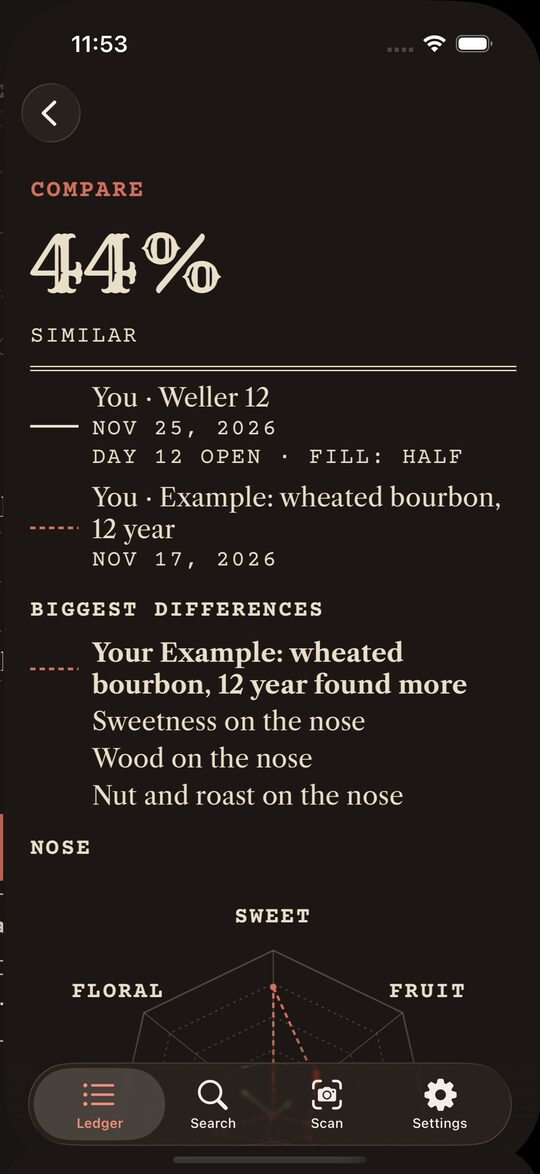
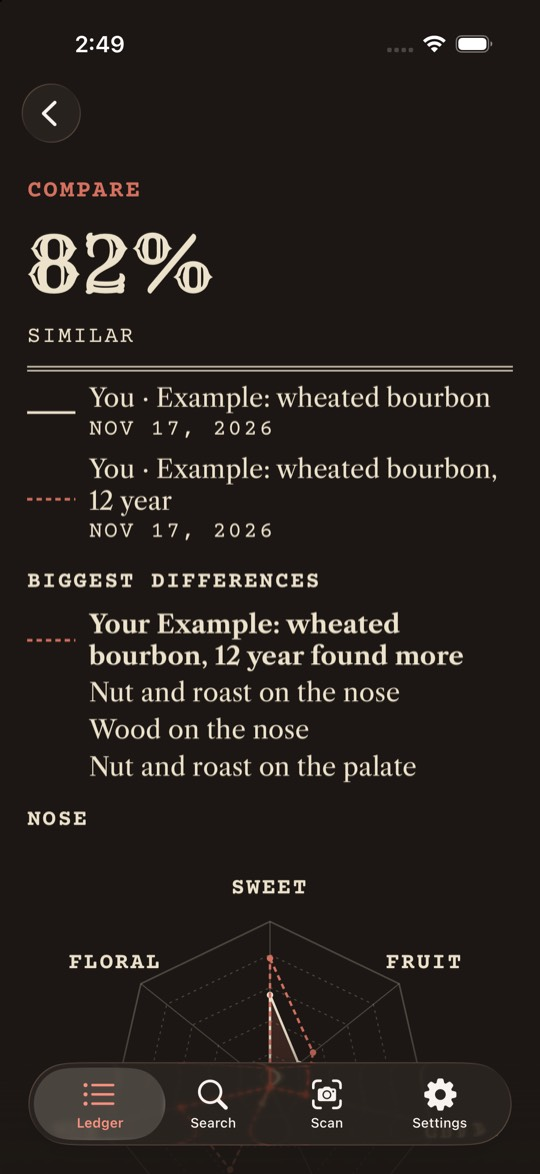
Compare: two screenshots (biggest differences; radar overlay with the flavors both picked), wheated vs 12-year wheated example, light and dark

diff --git a/index.html b/index.html
@@ -153,16 +153,27 @@
       </div>
 
       <div class="feature">
-        <figure class="phone">
-          <picture>
+        <div class="pair">
+          <figure class="phone">
+            <picture>
             <source media="(prefers-color-scheme: dark)" srcset="images/compare-dark.jpg">
-            <img src="images/compare-light.jpg" width="540" height="1174" loading="lazy" alt="Compare: two tastings at 44% similar, with their biggest differences listed and both signatures drawn over each other.">
+            <img src="images/compare-light.jpg" width="540" height="1174" loading="lazy" alt="Compare: a wheated bourbon and a 12-year wheated bourbon, 82% similar. Biggest differences: the 12 year found more nut and roast on the nose and palate, and more wood on the nose.">
           </picture>
-        </figure>
+            <figcaption class="hint">Differences</figcaption>
+          </figure>
+          <figure class="phone">
+            <picture>
+            <source media="(prefers-color-scheme: dark)" srcset="images/compare-radar-dark.jpg">
+            <img src="images/compare-radar-light.jpg" width="540" height="1174" loading="lazy" alt="The two palate signatures drawn over each other, one solid and one dashed, then the flavors both picked (caramel, vanilla, toffee, toasted oak and more) with each one's strength side by side.">
+          </picture>
+            <figcaption class="hint">Similarities</figcaption>
+          </figure>
+        </div>
         <div>
           <div class="label">Compare</div>
           <h3>Side by side, with the differences spelled out</h3>
-          <p>Pick any two tastings, yours or a friend's, and see how similar they are, which flavor families differ most and which flavors only one of you found.</p>
+          <p>Pick any two tastings, yours or a friend's, and see how similar they are and which flavor families differ most.</p>
+          <p>Both signatures are drawn over each other, so you can see at a glance where they agree and where they part. Below the radars: the flavors you both picked, with each one's strength side by side, and the flavors only one of you found.</p>
         </div>
       </div>
 

diff --git a/guide.html b/guide.html
@@ -148,13 +148,21 @@
           <ul>
             <li>how similar they are, as a percentage;</li>
             <li>the biggest differences, family by family;</li>
-            <li>the flavors only one of them has;</li>
-            <li>both signatures drawn over each other: yours solid, the other dashed.</li>
+            <li>both signatures drawn over each other, nose and palate: the tasting you started from solid, the other dashed;</li>
+            <li>the flavors both picked, with each one's strength side by side;</li>
+            <li>the flavors only one of them has.</li>
           </ul>
         </div>
-        <figure class="phone">
-          <picture><source media="(prefers-color-scheme: dark)" srcset="images/compare-dark.jpg"><img src="images/compare-light.jpg" width="540" height="1174" loading="lazy" alt="Compare: 44% similar, with the biggest differences."></picture>
-        </figure>
+        <div class="stack">
+          <figure class="phone">
+            <picture><source media="(prefers-color-scheme: dark)" srcset="images/compare-dark.jpg"><img src="images/compare-light.jpg" width="540" height="1174" loading="lazy" alt="Compare: a wheated bourbon and a 12-year wheated bourbon, 82% similar, with the biggest differences."></picture>
+            <figcaption class="hint">Differences</figcaption>
+          </figure>
+          <figure class="phone">
+            <picture><source media="(prefers-color-scheme: dark)" srcset="images/compare-radar-dark.jpg"><img src="images/compare-radar-light.jpg" width="540" height="1174" loading="lazy" alt="The two palate signatures drawn over each other, then the flavors both picked with each one's strength."></picture>
+            <figcaption class="hint">Similarities</figcaption>
+          </figure>
+        </div>
       </div>
 
       <div class="guide-step" id="similar">
